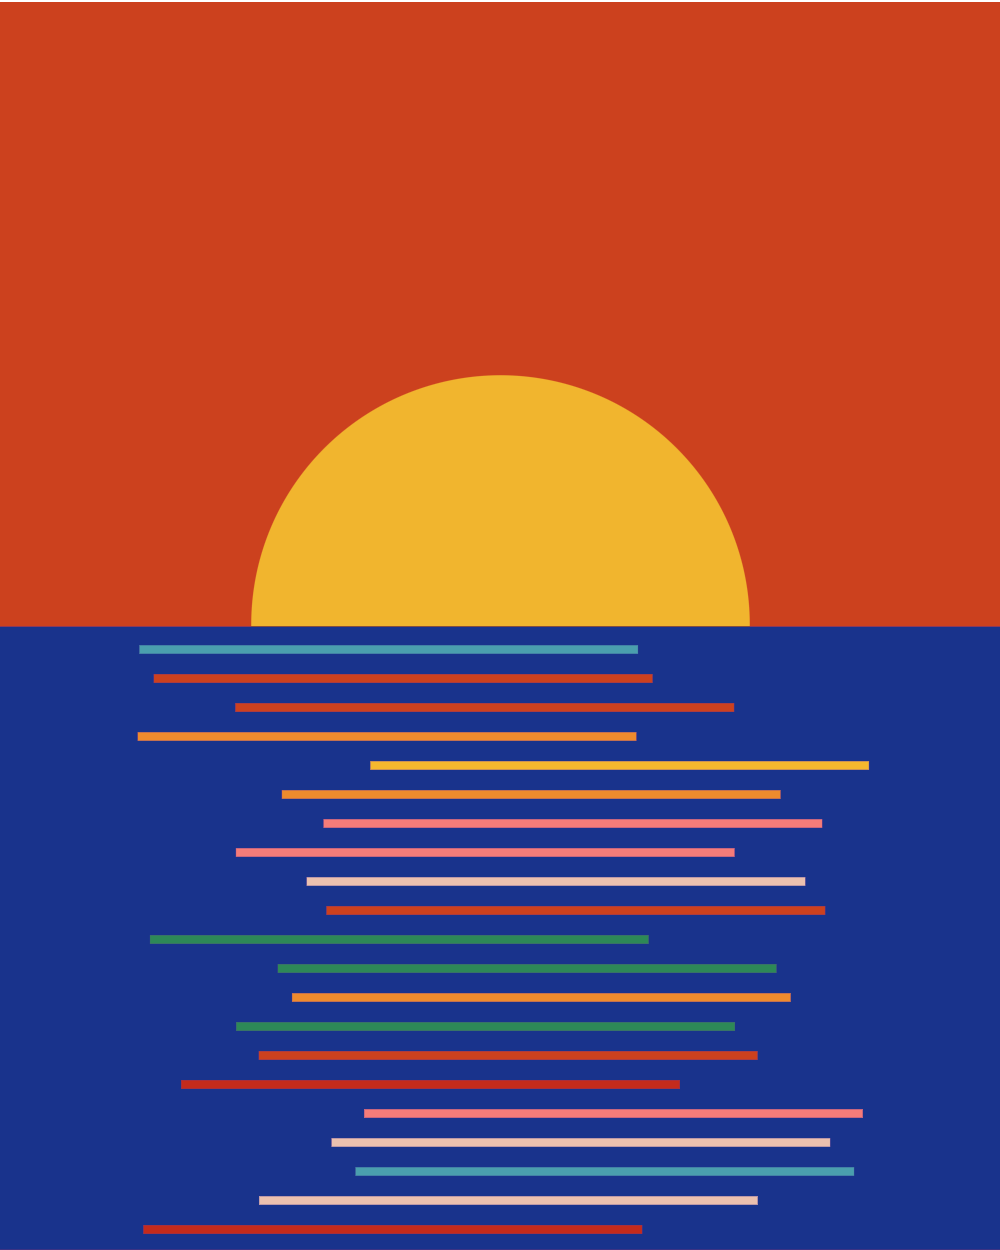
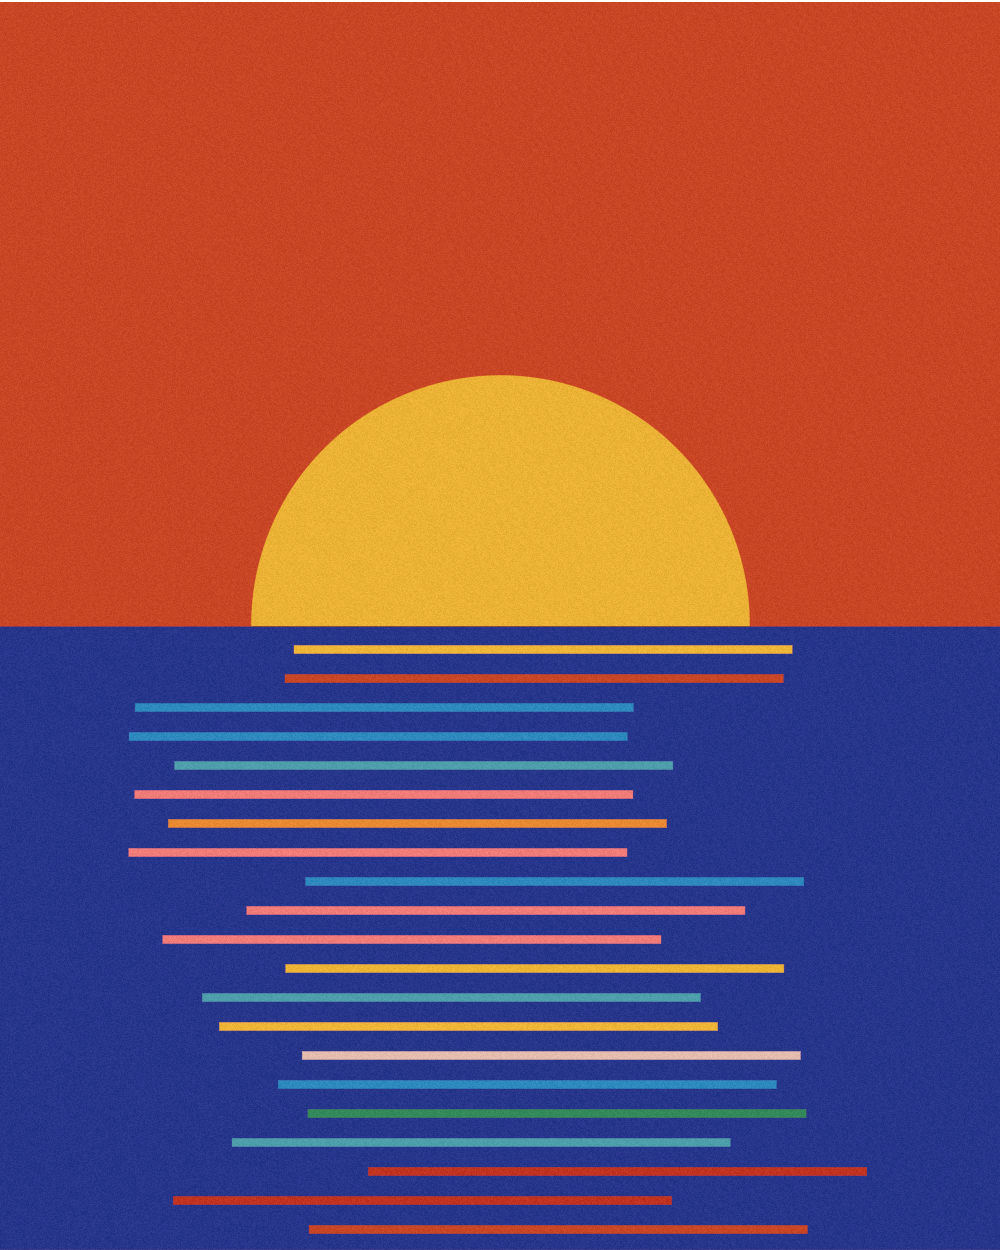
add film grain as example

Changed region(s): [[0.124, 0.4992, 0.868, 0.9984]]

diff --git a/ample.py b/ample.py
@@ -1,6 +1,6 @@
 from sdf_ui import *
 
-SIZE = (500, 1500)
+SIZE = (500, 1250)
 
 beige = (0.933, 0.875, 0.753, 1)
 blue = (0.059, 0.333, 0.569, 1)
@@ -13,7 +13,7 @@ if __name__ == "__main__":
     with Context(SIZE) as ctx:
         bg = clear_color(ctx, beige)
 
-        distance = ctx.percent_y(20)
+        distance = ctx.percent_y(25)
         radius = distance/2
 
         x = ctx.percent_x(50)
@@ -39,5 +39,7 @@ if __name__ == "__main__":
         bg = bg.mask(circles, d1.invert())
         bg = bg.mask(circles, d2.invert())
         bg = bg.mask(circles, d3.invert())
+
+        bg = bg.alpha_overlay(film_grain(ctx).to_lab().transparency(0.05))
 
         bg.save("ample.png")

diff --git a/black_and_red.py b/black_and_red.py
@@ -38,4 +38,7 @@ if __name__ == "__main__":
         bg = bg.alpha_overlay(bc2)
         bg = bg.alpha_overlay(sc1)
         bg = bg.alpha_overlay(sc2)
+
+        bg = bg.alpha_overlay(film_grain(ctx).to_lab().transparency(0.05))
+
         bg.save("black_and_red.png")

diff --git a/main.py b/main.py
@@ -85,4 +85,6 @@ if __name__ == "__main__":
 
             circles = circles.mask(intersection, i.invert())
 
+        bg = bg.alpha_overlay(film_grain(ctx).to_lab().transparency(0.05))
+
         bg.mask(bg.alpha_overlay(circles), rr_mask.invert()).save("image.png")

diff --git a/dawn.py b/dawn.py
@@ -45,5 +45,6 @@ if __name__ == "__main__":
 
             bg = bg.alpha_overlay(rr)
 
+        bg = bg.alpha_overlay(film_grain(ctx).to_lab().transparency(0.05))
+
         bg.save("dawn.png")
-        
